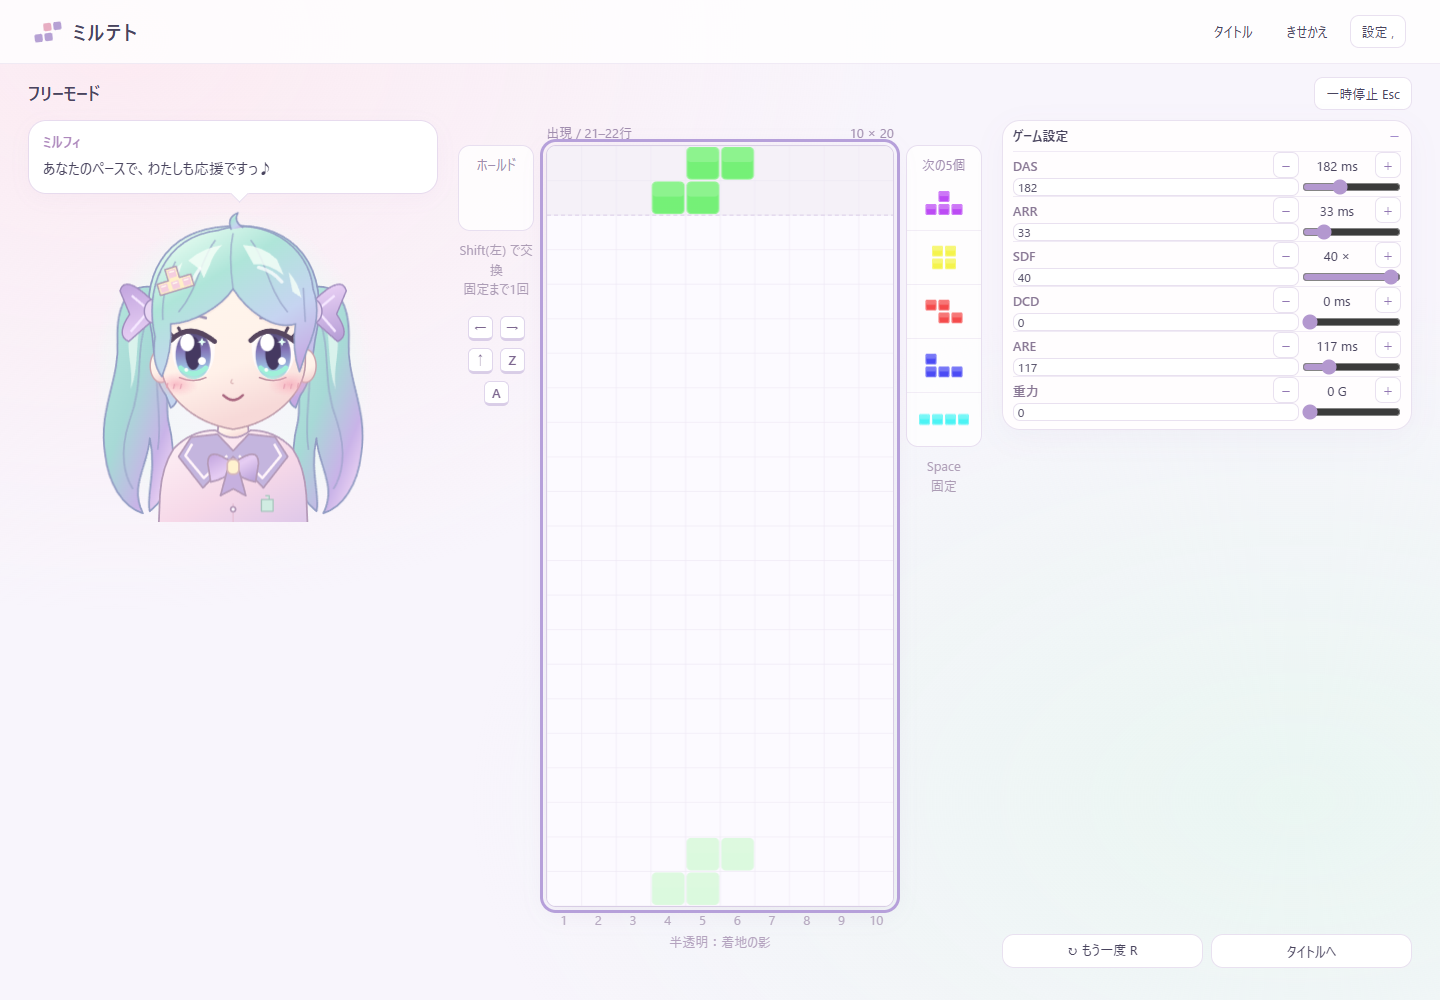
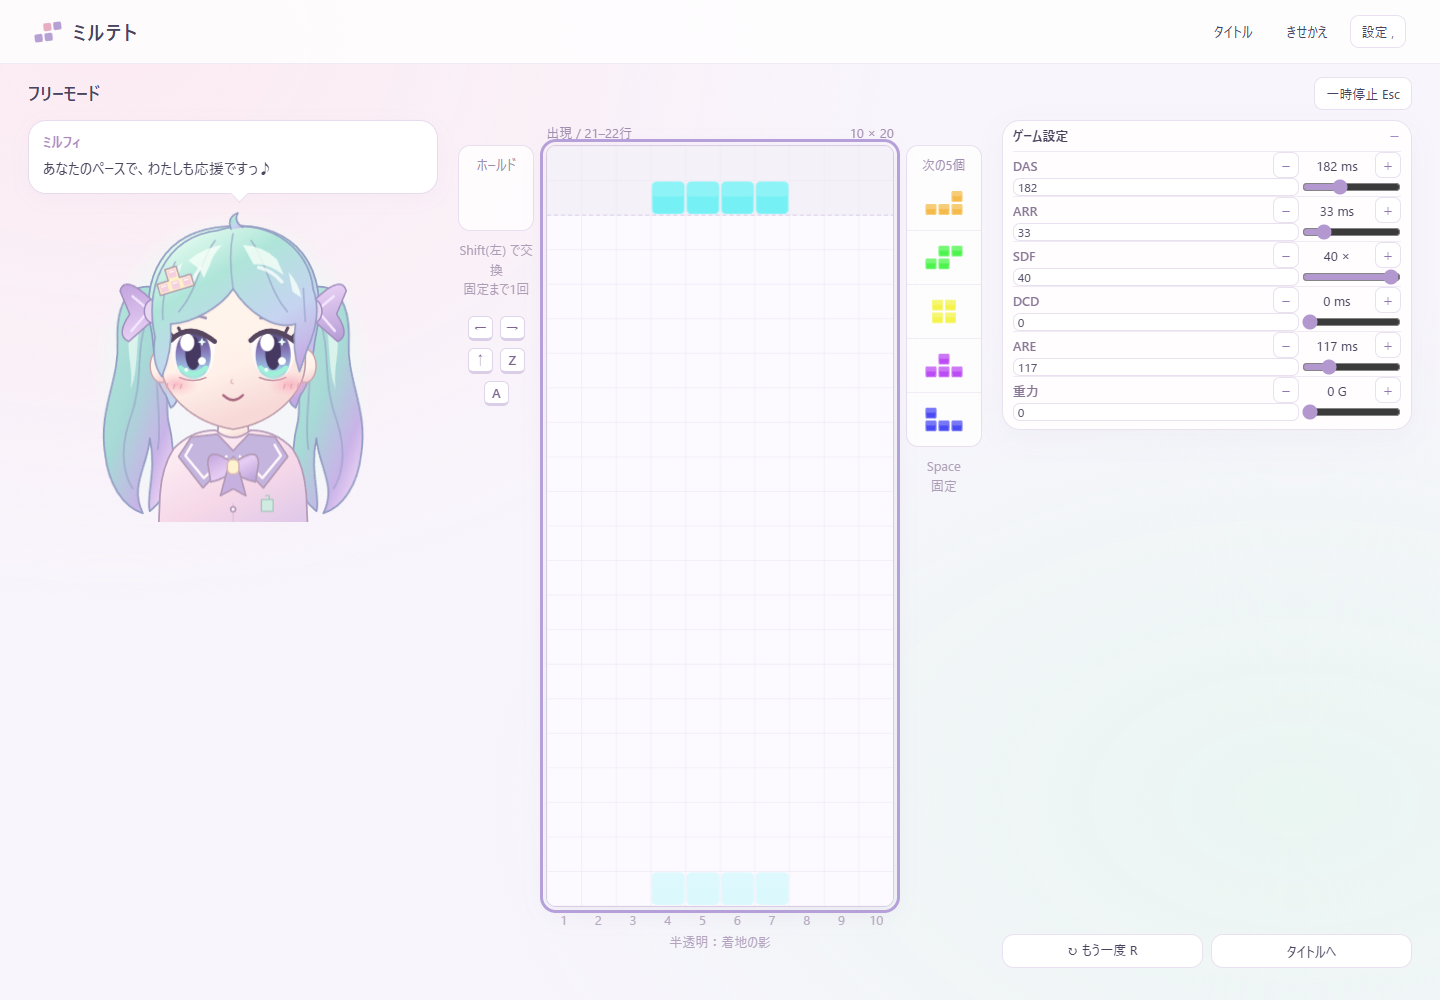
Align direct numeric edits with slider steps and clarify presets (BL-122)

diff --git a/dist/mirutet.html b/dist/mirutet.html
@@ -4113,7 +4113,7 @@ body[data-screen=dressup]{min-width:0;overflow:auto;height:auto}body[data-screen
     tgm3: { are: 67, irs: true, ihs: true, allow180: false }
   };
   function presetsHTML() {
-    return `<div class="handling-presets" role="group" aria-label="近い設定"><span>プリセット</span>${[['ppt2', 'PPT2'], ['tec', 'TEC'], ['tgm3', 'TGM3']].map(([key, label]) => `<button class="small" data-act="handling-preset" data-preset="${key}">${label}</button>`).join('')}<button class="small" data-act="reset-handling">既定値</button></div><details class="preset-notes"><summary>プリセットについて</summary><p>対応する既知の項目だけを変更します。ほかの値は保持し、適用後も調整できます。完全再現ではありません。1F＝1/60秒としてmsに丸めています。</p><p>PPT2：ARR 2F・ARE 7Fはコミュニティ計測。IRS/IHSなしは過去の検証版に基づきます。<br>TEC：ARR 2Fは公式サイトのコミュニティガイド、ARE 約6FはMaster限定の報告です。<br>TGM3：ARE 4FはMaster最速時の参考定数です。TEC・TGM3はIRS/IHSあり。いずれも1入力180度回転なし。</p></details>`;
+    return `<div class="handling-presets" role="group" aria-label="近い設定"><span>近い設定</span>${[['ppt2', 'PPT2'], ['tec', 'TEC'], ['tgm3', 'TGM3']].map(([key, label]) => `<button class="small" data-act="handling-preset" data-preset="${key}">${label}</button>`).join('')}<button class="small" data-act="reset-handling">既定値</button></div><details class="preset-notes"><summary>プリセットについて</summary><p>対応する既知の項目だけを変更します。ほかの値は保持し、適用後も調整できます。完全再現ではありません。1F＝1/60秒としてmsに丸めています。</p><p>PPT2：ARR 2F・ARE 7Fはコミュニティ計測。IRS/IHSなしは過去の検証版に基づきます。<br>TEC：ARR 2Fは公式サイトのコミュニティガイド、ARE 約6FはMaster限定の報告です。<br>TGM3：ARE 4FはMaster最速時の参考定数です。TEC・TGM3はIRS/IHSあり。いずれも1入力180度回転なし。</p></details>`;
   }
   let practice = copy(PRACTICE_DEFAULTS), progress = { current: 0, completed: [] };
   let totalStats = new E.Stats(), storageOK = true;
@@ -4401,9 +4401,15 @@ body[data-screen=dressup]{min-width:0;overflow:auto;height:auto}body[data-screen
     const [min, max, step] = UI_NUMERIC[key];
     return `<div class="setting-row"><label for="ui-${key}">${title}</label><input aria-label="${title} スライダー" data-ui="${key}" type="range" min="${min}" max="${max}" step="${step}" value="${ui[key]}"><button class="setting-step" data-act="adjust-ui" data-ui-key="${key}" data-step="-1" aria-label="${title}を減らす">−</button><input id="ui-${key}" aria-label="${title}" data-ui="${key}" type="number" min="${min}" max="${max}" step="${step}" value="${ui[key]}"><button class="setting-step" data-act="adjust-ui" data-ui-key="${key}" data-step="1" aria-label="${title}を増やす">＋</button></div>`;
   }
+  // Match native range step rounding (ties toward the higher value). Clamp
+  // before rounding, and remove floating point noise from decimal steps.
+  function snapNumeric(value, min, max, step) {
+    const bounded = Math.max(min, Math.min(max, value));
+    const ticks = Math.round(Number(((bounded - min) / step).toFixed(10)));
+    return Math.max(min, Math.min(max, Number((min + ticks * step).toFixed(10))));
+  }
   function updateNumericUI(key, value) {
-    const [min, max] = UI_NUMERIC[key];
-    ui[key] = Math.max(min, Math.min(max, value));
+    ui[key] = snapNumeric(value, ...UI_NUMERIC[key]);
     for (const input of $$(`[data-ui="${key}"]`)) input.value = ui[key];
     if (key === 'pieceCueVolume' && $('#cue-volume')) $('#cue-volume').textContent = String(ui[key]);
     audio.configure(); save();
@@ -5006,7 +5012,9 @@ body[data-screen=dressup]{min-width:0;overflow:auto;height:auto}body[data-screen
     const input = event.target;
     if (input.dataset.setting) {
       if (!input.value || !Number.isFinite(Number(input.value))) return;
-      const key = input.dataset.setting, raw = input.value, value = Number(raw); updateSettings({ [key]: value });
+      const key = input.dataset.setting, raw = input.value, value = Number(raw);
+      const field = HANDLING.find(field => field.key === key);
+      updateSettings({ [key]: snapNumeric(value, ...E.SETTING_LIMITS[key], field.step) });
       if (value === settings[key]) input.value = raw;
       processEvents();
       for (const other of $$(`[data-setting="${key}"]`)) if (other !== input) other.value = settings[key];

diff --git a/index.html b/index.html
@@ -4113,7 +4113,7 @@ body[data-screen=dressup]{min-width:0;overflow:auto;height:auto}body[data-screen
     tgm3: { are: 67, irs: true, ihs: true, allow180: false }
   };
   function presetsHTML() {
-    return `<div class="handling-presets" role="group" aria-label="近い設定"><span>プリセット</span>${[['ppt2', 'PPT2'], ['tec', 'TEC'], ['tgm3', 'TGM3']].map(([key, label]) => `<button class="small" data-act="handling-preset" data-preset="${key}">${label}</button>`).join('')}<button class="small" data-act="reset-handling">既定値</button></div><details class="preset-notes"><summary>プリセットについて</summary><p>対応する既知の項目だけを変更します。ほかの値は保持し、適用後も調整できます。完全再現ではありません。1F＝1/60秒としてmsに丸めています。</p><p>PPT2：ARR 2F・ARE 7Fはコミュニティ計測。IRS/IHSなしは過去の検証版に基づきます。<br>TEC：ARR 2Fは公式サイトのコミュニティガイド、ARE 約6FはMaster限定の報告です。<br>TGM3：ARE 4FはMaster最速時の参考定数です。TEC・TGM3はIRS/IHSあり。いずれも1入力180度回転なし。</p></details>`;
+    return `<div class="handling-presets" role="group" aria-label="近い設定"><span>近い設定</span>${[['ppt2', 'PPT2'], ['tec', 'TEC'], ['tgm3', 'TGM3']].map(([key, label]) => `<button class="small" data-act="handling-preset" data-preset="${key}">${label}</button>`).join('')}<button class="small" data-act="reset-handling">既定値</button></div><details class="preset-notes"><summary>プリセットについて</summary><p>対応する既知の項目だけを変更します。ほかの値は保持し、適用後も調整できます。完全再現ではありません。1F＝1/60秒としてmsに丸めています。</p><p>PPT2：ARR 2F・ARE 7Fはコミュニティ計測。IRS/IHSなしは過去の検証版に基づきます。<br>TEC：ARR 2Fは公式サイトのコミュニティガイド、ARE 約6FはMaster限定の報告です。<br>TGM3：ARE 4FはMaster最速時の参考定数です。TEC・TGM3はIRS/IHSあり。いずれも1入力180度回転なし。</p></details>`;
   }
   let practice = copy(PRACTICE_DEFAULTS), progress = { current: 0, completed: [] };
   let totalStats = new E.Stats(), storageOK = true;
@@ -4401,9 +4401,15 @@ body[data-screen=dressup]{min-width:0;overflow:auto;height:auto}body[data-screen
     const [min, max, step] = UI_NUMERIC[key];
     return `<div class="setting-row"><label for="ui-${key}">${title}</label><input aria-label="${title} スライダー" data-ui="${key}" type="range" min="${min}" max="${max}" step="${step}" value="${ui[key]}"><button class="setting-step" data-act="adjust-ui" data-ui-key="${key}" data-step="-1" aria-label="${title}を減らす">−</button><input id="ui-${key}" aria-label="${title}" data-ui="${key}" type="number" min="${min}" max="${max}" step="${step}" value="${ui[key]}"><button class="setting-step" data-act="adjust-ui" data-ui-key="${key}" data-step="1" aria-label="${title}を増やす">＋</button></div>`;
   }
+  // Match native range step rounding (ties toward the higher value). Clamp
+  // before rounding, and remove floating point noise from decimal steps.
+  function snapNumeric(value, min, max, step) {
+    const bounded = Math.max(min, Math.min(max, value));
+    const ticks = Math.round(Number(((bounded - min) / step).toFixed(10)));
+    return Math.max(min, Math.min(max, Number((min + ticks * step).toFixed(10))));
+  }
   function updateNumericUI(key, value) {
-    const [min, max] = UI_NUMERIC[key];
-    ui[key] = Math.max(min, Math.min(max, value));
+    ui[key] = snapNumeric(value, ...UI_NUMERIC[key]);
     for (const input of $$(`[data-ui="${key}"]`)) input.value = ui[key];
     if (key === 'pieceCueVolume' && $('#cue-volume')) $('#cue-volume').textContent = String(ui[key]);
     audio.configure(); save();
@@ -5006,7 +5012,9 @@ body[data-screen=dressup]{min-width:0;overflow:auto;height:auto}body[data-screen
     const input = event.target;
     if (input.dataset.setting) {
       if (!input.value || !Number.isFinite(Number(input.value))) return;
-      const key = input.dataset.setting, raw = input.value, value = Number(raw); updateSettings({ [key]: value });
+      const key = input.dataset.setting, raw = input.value, value = Number(raw);
+      const field = HANDLING.find(field => field.key === key);
+      updateSettings({ [key]: snapNumeric(value, ...E.SETTING_LIMITS[key], field.step) });
       if (value === settings[key]) input.value = raw;
       processEvents();
       for (const other of $$(`[data-setting="${key}"]`)) if (other !== input) other.value = settings[key];

diff --git a/src/app.js b/src/app.js
@@ -43,7 +43,7 @@
     tgm3: { are: 67, irs: true, ihs: true, allow180: false }
   };
   function presetsHTML() {
-    return `<div class="handling-presets" role="group" aria-label="近い設定"><span>プリセット</span>${[['ppt2', 'PPT2'], ['tec', 'TEC'], ['tgm3', 'TGM3']].map(([key, label]) => `<button class="small" data-act="handling-preset" data-preset="${key}">${label}</button>`).join('')}<button class="small" data-act="reset-handling">既定値</button></div><details class="preset-notes"><summary>プリセットについて</summary><p>対応する既知の項目だけを変更します。ほかの値は保持し、適用後も調整できます。完全再現ではありません。1F＝1/60秒としてmsに丸めています。</p><p>PPT2：ARR 2F・ARE 7Fはコミュニティ計測。IRS/IHSなしは過去の検証版に基づきます。<br>TEC：ARR 2Fは公式サイトのコミュニティガイド、ARE 約6FはMaster限定の報告です。<br>TGM3：ARE 4FはMaster最速時の参考定数です。TEC・TGM3はIRS/IHSあり。いずれも1入力180度回転なし。</p></details>`;
+    return `<div class="handling-presets" role="group" aria-label="近い設定"><span>近い設定</span>${[['ppt2', 'PPT2'], ['tec', 'TEC'], ['tgm3', 'TGM3']].map(([key, label]) => `<button class="small" data-act="handling-preset" data-preset="${key}">${label}</button>`).join('')}<button class="small" data-act="reset-handling">既定値</button></div><details class="preset-notes"><summary>プリセットについて</summary><p>対応する既知の項目だけを変更します。ほかの値は保持し、適用後も調整できます。完全再現ではありません。1F＝1/60秒としてmsに丸めています。</p><p>PPT2：ARR 2F・ARE 7Fはコミュニティ計測。IRS/IHSなしは過去の検証版に基づきます。<br>TEC：ARR 2Fは公式サイトのコミュニティガイド、ARE 約6FはMaster限定の報告です。<br>TGM3：ARE 4FはMaster最速時の参考定数です。TEC・TGM3はIRS/IHSあり。いずれも1入力180度回転なし。</p></details>`;
   }
   let practice = copy(PRACTICE_DEFAULTS), progress = { current: 0, completed: [] };
   let totalStats = new E.Stats(), storageOK = true;
@@ -331,9 +331,15 @@
     const [min, max, step] = UI_NUMERIC[key];
     return `<div class="setting-row"><label for="ui-${key}">${title}</label><input aria-label="${title} スライダー" data-ui="${key}" type="range" min="${min}" max="${max}" step="${step}" value="${ui[key]}"><button class="setting-step" data-act="adjust-ui" data-ui-key="${key}" data-step="-1" aria-label="${title}を減らす">−</button><input id="ui-${key}" aria-label="${title}" data-ui="${key}" type="number" min="${min}" max="${max}" step="${step}" value="${ui[key]}"><button class="setting-step" data-act="adjust-ui" data-ui-key="${key}" data-step="1" aria-label="${title}を増やす">＋</button></div>`;
   }
+  // Match native range step rounding (ties toward the higher value). Clamp
+  // before rounding, and remove floating point noise from decimal steps.
+  function snapNumeric(value, min, max, step) {
+    const bounded = Math.max(min, Math.min(max, value));
+    const ticks = Math.round(Number(((bounded - min) / step).toFixed(10)));
+    return Math.max(min, Math.min(max, Number((min + ticks * step).toFixed(10))));
+  }
   function updateNumericUI(key, value) {
-    const [min, max] = UI_NUMERIC[key];
-    ui[key] = Math.max(min, Math.min(max, value));
+    ui[key] = snapNumeric(value, ...UI_NUMERIC[key]);
     for (const input of $$(`[data-ui="${key}"]`)) input.value = ui[key];
     if (key === 'pieceCueVolume' && $('#cue-volume')) $('#cue-volume').textContent = String(ui[key]);
     audio.configure(); save();
@@ -936,7 +942,9 @@
     const input = event.target;
     if (input.dataset.setting) {
       if (!input.value || !Number.isFinite(Number(input.value))) return;
-      const key = input.dataset.setting, raw = input.value, value = Number(raw); updateSettings({ [key]: value });
+      const key = input.dataset.setting, raw = input.value, value = Number(raw);
+      const field = HANDLING.find(field => field.key === key);
+      updateSettings({ [key]: snapNumeric(value, ...E.SETTING_LIMITS[key], field.step) });
       if (value === settings[key]) input.value = raw;
       processEvents();
       for (const other of $$(`[data-setting="${key}"]`)) if (other !== input) other.value = settings[key];

diff --git a/tests/settings.browser.check.js b/tests/settings.browser.check.js
@@ -9,7 +9,7 @@ const assert=require('node:assert/strict'),path=require('node:path'),fs=require(
   const state=()=>page.evaluate(()=>window.__mirutet.getState());
   const click=act=>page.locator(`[data-act="${act}"]`).first().click();
   await page.goto(pathToFileURL(path.resolve(__dirname,'../dist/mirutet.html')).href);
-  await click('settings'); assert.equal(await page.locator('h2').textContent(),'ゲーム設定');
+  await click('settings'); assert.equal(await page.locator('.handling-presets>span').textContent(),'近い設定'); assert.equal(await page.locator('h2').textContent(),'ゲーム設定');
   for(const key of ['das','arr','sdf','dcd','are','gravity']) {
     const input=page.locator(`#setting-${key}`),range=page.locator(`[data-setting=${key}][type=range]`);
     await input.fill('');await input.blur();assert.notEqual(await input.inputValue(),'');
@@ -21,6 +21,20 @@ const assert=require('node:assert/strict'),path=require('node:path'),fs=require(
     await page.locator(`[data-act=adjust-handling][data-handling-key=${key}][data-step="1"]`).click();
     assert(Math.abs((await state()).settings[key]-before-(key==='gravity'?.1:1))<1e-8);
     assert.equal(await input.inputValue(),await range.inputValue());
+  }
+  // Regression: browser range values must equal number fields and stored state.
+  for (const [attribute,key,raw,expected] of [
+    ['ui','volume','.33',.35], ['ui','volume','.325',.35], ['ui','pieceCueVolume','37.6',38],
+    ['setting','das','12.6',13], ['setting','arr','12.5',13], ['setting','sdf','12.4',12],
+    ['setting','dcd','12.6',13], ['setting','are','12.6',13], ['setting','gravity','.35',.4]
+  ]) {
+    const number=page.locator(`[data-${attribute}=${key}][type=number]`);
+    const range=page.locator(`[data-${attribute}=${key}][type=range]`);
+    await number.fill(raw); await number.blur();
+    assert.equal(await number.inputValue(),String(expected));assert.equal(await range.inputValue(),String(expected));
+    assert.equal((await state())[attribute==='ui'?'ui':'settings'][key],expected);
+    const stored=await page.evaluate(()=>JSON.parse(localStorage.getItem(window.__mirutet.storageKey)));
+    assert.equal(stored[attribute==='ui'?'ui':'settings'][key],expected);
   }
   await page.locator('#setting-das').fill('173');
   for(let i=0;i<24;i++) await page.locator('[data-act=handling-preset]').nth(i%3).click();
@@ -47,7 +61,7 @@ const assert=require('node:assert/strict'),path=require('node:path'),fs=require(
   await click('mode-free');await click('free');await page.waitForFunction(()=>!!window.__mirutet.getState().active);
   await click('toggle-handling');
   const live=page.locator('[data-live-handling] input[type=number][data-setting=das]');
-  await live.fill('182');assert.equal((await state()).settings.das,182);
+  await live.fill('181.6');assert.equal((await state()).settings.das,182);
   const active=(await state()).active;
   await page.keyboard.press('ArrowRight');await page.keyboard.press('Space');
   assert.equal((await state()).active.x,active.x);assert.equal((await state()).active.rot,active.rot);

diff --git a/tests/app.settings.test.js b/tests/app.settings.test.js
@@ -161,3 +161,26 @@ test('numeric settings clamp invalid commits and preserve repeated edits across 
   app.click('reset-handling');assert.deepEqual(app.state().settings,E.DEFAULT_SETTINGS);
   app.click('close-settings');assert.equal(app.state().screen,'menu');
 });
+
+
+test('direct numeric edits snap to slider steps before saving, including decimal ties', () => {
+  const app = loadApp(); app.click('settings');
+  assert.match(app.nodes['#app'].innerHTML, /<span>近い設定<\/span>/);
+  for (const [key, raw, expected] of [
+    ['volume', '.33', .35], ['volume', '.325', .35], ['volume', '.324', .3],
+    ['volume', '1.01', 1], ['volume', '-.1', 0], ['pieceCueVolume', '37.6', 38]
+  ]) {
+    app.change({ui:key},raw,'input'); app.change({ui:key},raw);
+    assert.equal(app.state().ui[key],expected); assert.equal(app.persisted().ui[key],expected);
+  }
+  for (const [key, raw, expected] of [
+    ['das','12.6',13], ['arr','12.5',13], ['sdf','12.4',12], ['dcd','12.6',13],
+    ['are','12.6',13], ['gravity','.33',.3], ['gravity','.35',.4]
+  ]) {
+    app.change({setting:key},raw,'input');app.change({setting:key},raw);
+    assert.equal(app.state().settings[key],expected);assert.equal(app.persisted().settings[key],expected);
+  }
+  const restored=loadApp(app.persisted());
+  assert.deepEqual(restored.state().settings,app.state().settings);
+  assert.deepEqual(restored.state().ui,app.state().ui);
+});

diff --git a/docs/BL-122.md b/docs/BL-122.md
@@ -3,7 +3,9 @@
 The settings page and live handling panel share the existing normalized settings,
 local storage and `session.setSettings` path. Number fields, sliders and stepper
 buttons stay synchronized; empty/invalid drafts retain the last valid value and
-restore it on commit. Numeric audio preferences use their existing bounds too.
+restore it on commit. Direct numeric edits round to the nearest existing slider
+step before saving (ties round upward), including audio preferences. Imported
+fractional handling values and their existing stepper behavior remain unchanged.
 Live numeric fields release held inputs and isolate editing keys; Enter or Escape
 returns focus to the board. Existing pointer stepper buttons still retain board focus.
 
